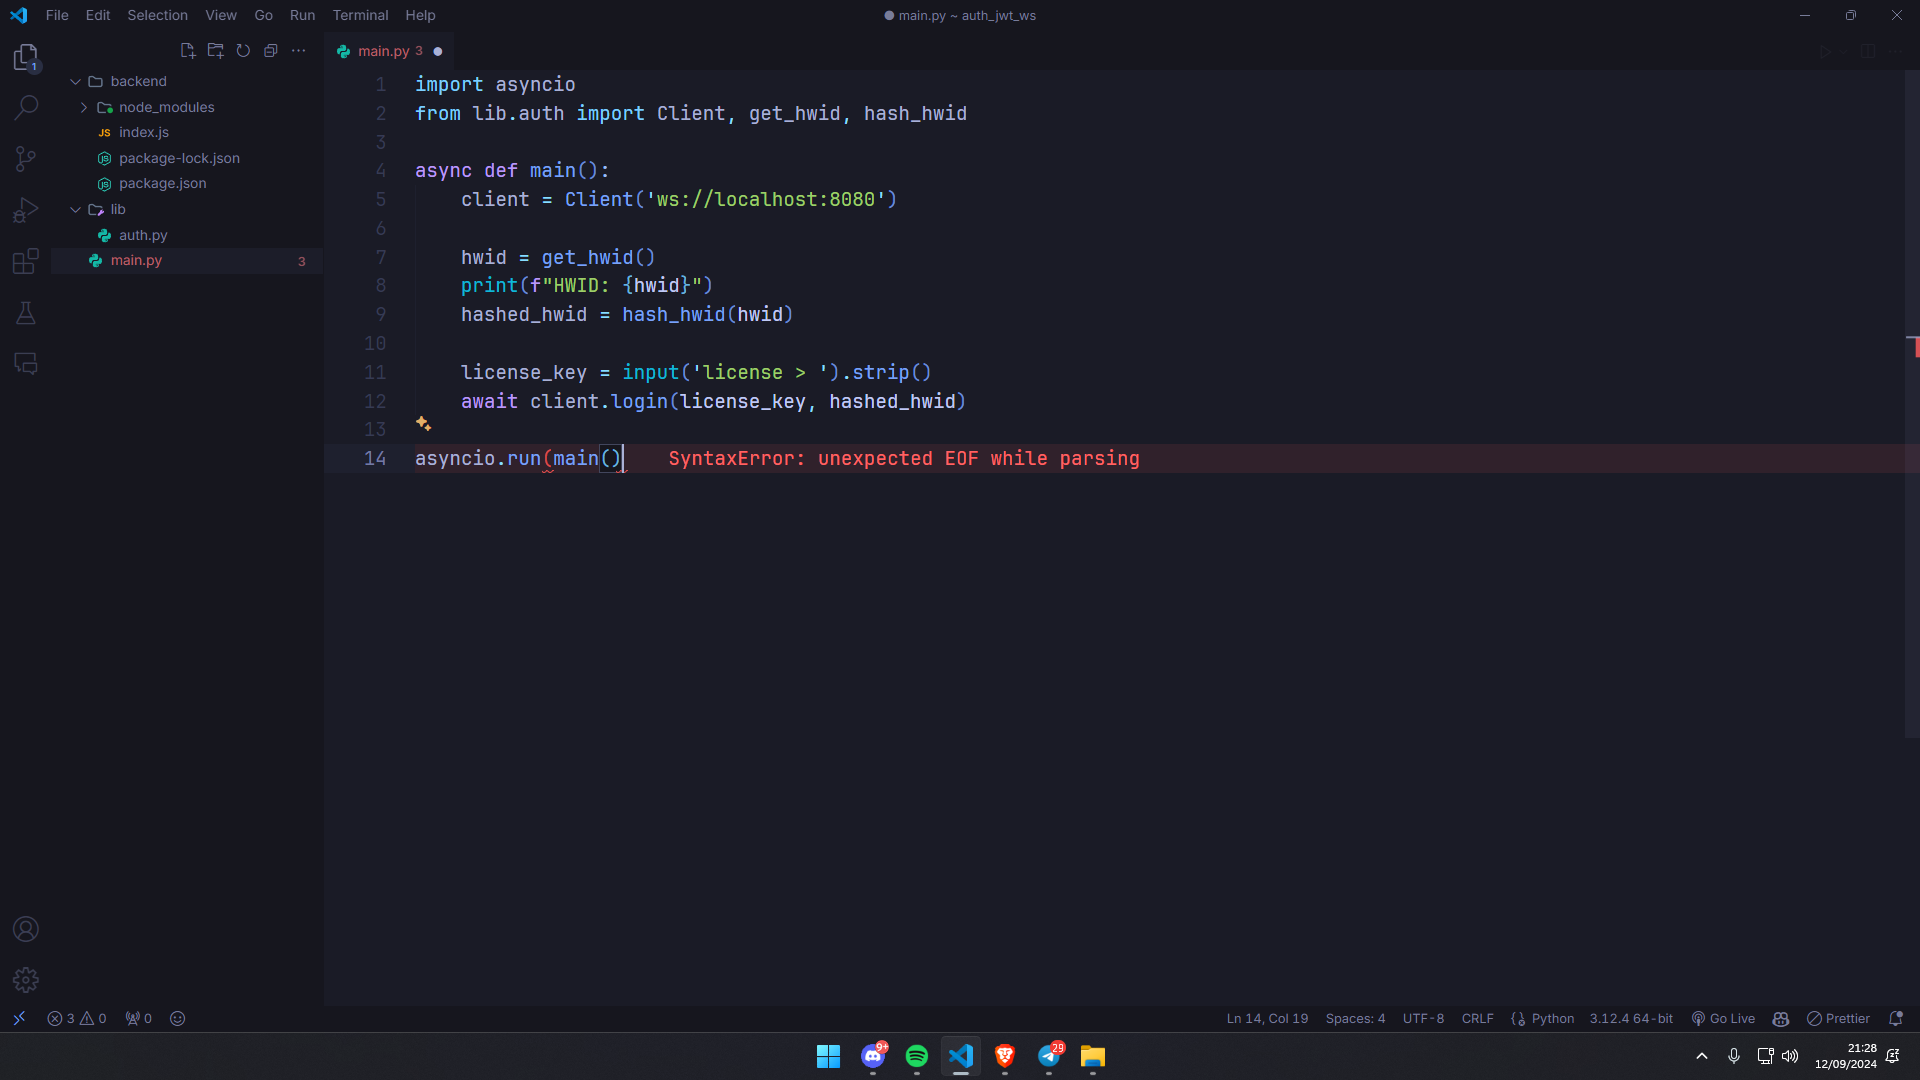
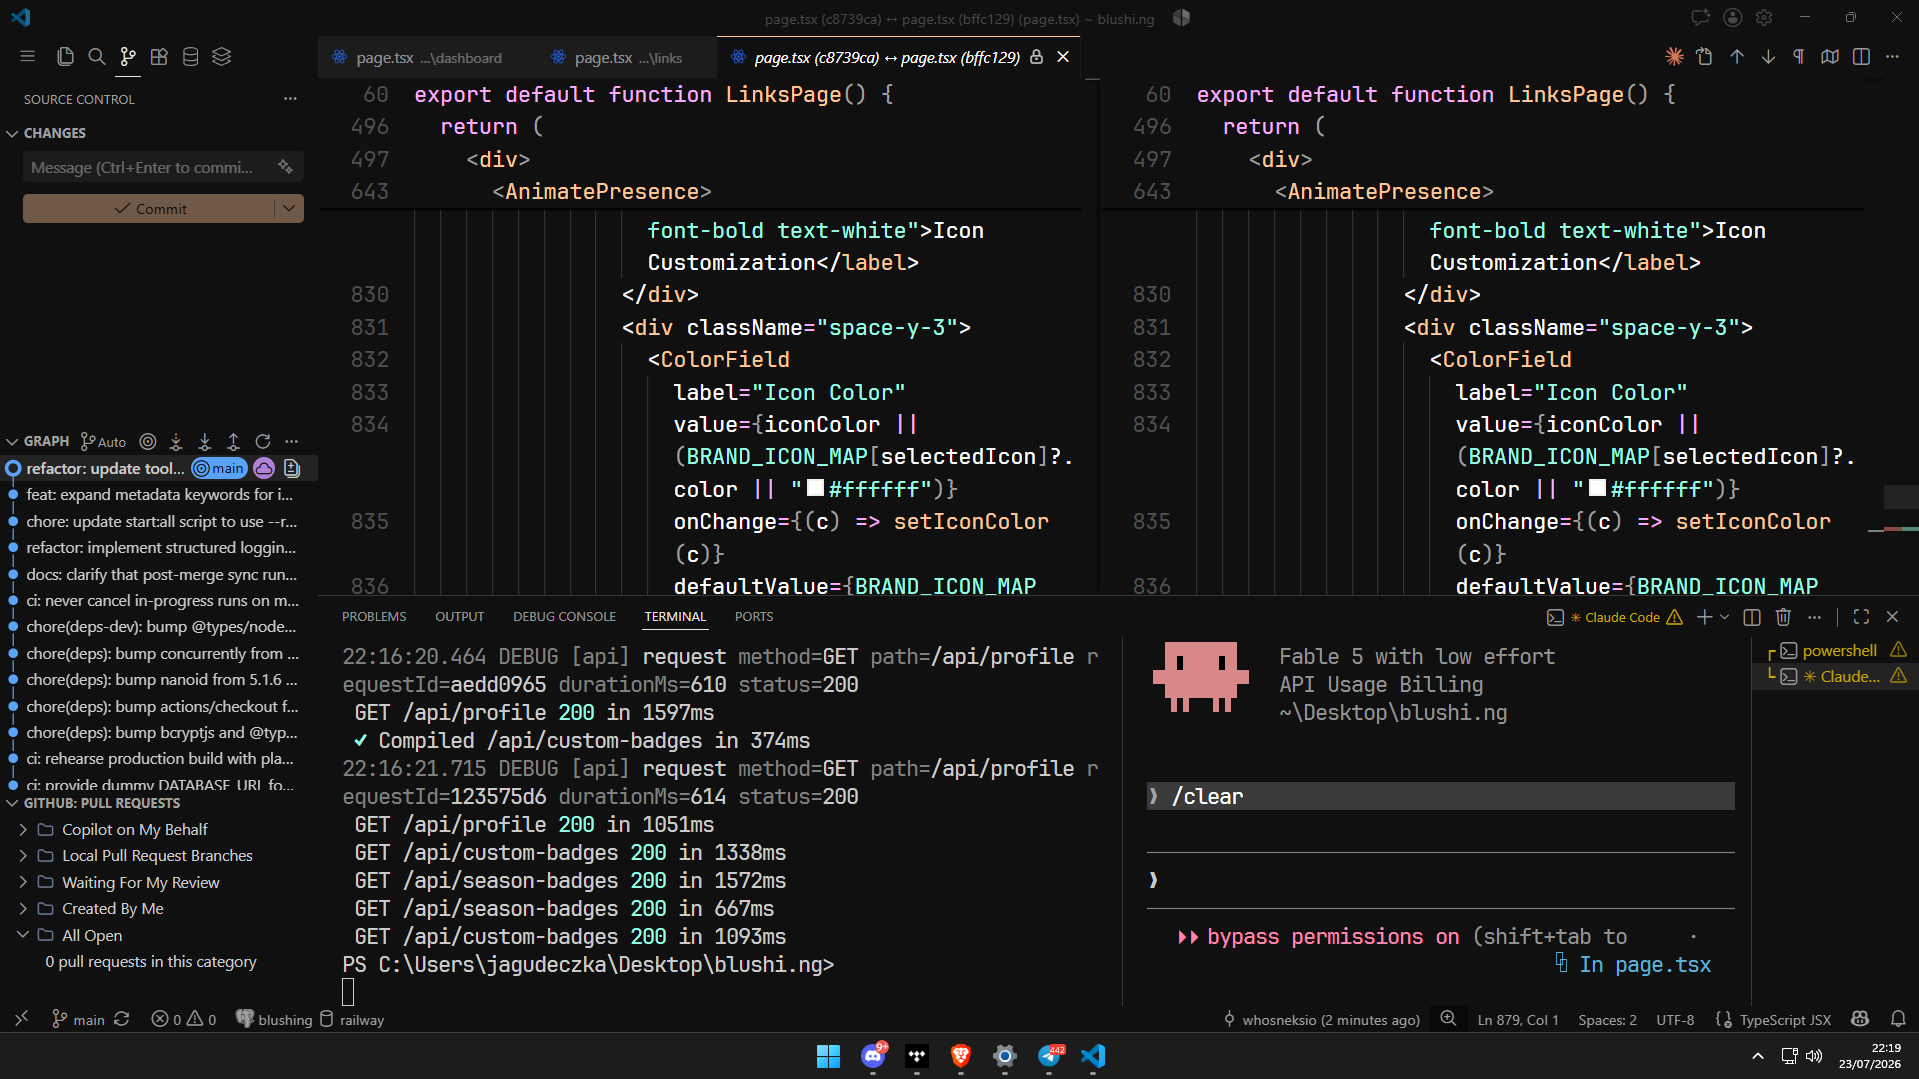
update

diff --git a/README.md b/README.md
@@ -6,18 +6,17 @@
 
 ### Theming
 
-- [Apc Customize UI++](https://marketplace.visualstudio.com/items?itemName=drcika.apc-extension)
-- [Borderless Tokyo Night](https://marketplace.visualstudio.com/items?itemName=gusvasconcelos.borderless-tokyonight)
-- [Symbols](https://marketplace.visualstudio.com/items?itemName=miguelsolorio.symbols)
+- Vesper ++
+- Symbols
 
 ### Utility
 
-- [Discord Rich Presence](https://marketplace.visualstudio.com/items?itemName=LeonardSSH.vscord)
-- [Error Lens](https://marketplace.visualstudio.com/items?itemName=usernamehw.errorlens)
-- [GitHub Copilot](https://marketplace.visualstudio.com/items?itemName=GitHub.copilot)
-- [Live Server](https://marketplace.visualstudio.com/items?itemName=ritwickdey.LiveServer)
-- [Prettier - Code formatter](https://marketplace.visualstudio.com/items?itemName=esbenp.prettier-vscode)
-- [Ruff](https://marketplace.visualstudio.com/items?itemName=charliermarsh.ruff)
+- GitHub Pull Requests
+- Prettier
+- Pretter ESLint
+- Database Client
+- Database Client JDBC
+- Claude Code for VS Code
 
 ## settings.json
 
@@ -42,7 +41,7 @@
     "workbench.iconTheme": "symbols",
     "workbench.list.smoothScrolling": true,
     "workbench.layoutControl.enabled": false,
-    "workbench.colorTheme": "Borderless Tokyo Night",
+    "workbench.colorTheme": "Vesper ++",
 
     "window.zoomLevel": 0.35,
     "window.commandCenter": false,
@@ -51,26 +50,40 @@
     "explorer.compactFolders": false,
 
     "breadcrumbs.enabled": false,
+    "workbench.activityBar.location": "top",
+    "window.menuBarVisibility": "compact",
+    
+    "claudeCode.useTerminal": true,
+    "git.autofetch": true
+}
+```
 
-    "apc.statusBar": {
-        "height": 24,
-        "fontSize": 12
-    },
+## Claude's settings.json
 
-    "apc.header": {
-        "height": 36
-    },
-
-    "apc.listRow": {
-        "height": 24
-    },
-
-    "apc.stylesheet": {
-        ".title-label > h2": "display: none;",
-        ".editor-actions": "opacity: 0.1; transition: .2s;",
-        ".editor-actions:hover": "opacity: 1; transition: .2s;",
-    },
-
-    "apc.font.family": "Inter",
+```json
+{
+  "env": {
+    "ANTHROPIC_BASE_URL": "",
+    "ANTHROPIC_AUTH_TOKEN": "",
+    "CLAUDE_CODE_DISABLE_NONESSENTIAL_TRAFFIC": "1",
+    "CLAUDE_CODE_ATTRIBUTION_HEADER": "0",
+    "DISABLE_TELEMETRY": "1",
+    "DISABLE_ERROR_REPORTING": "1",
+    "DISABLE_AUTOUPDATER": "1",
+    "DISABLE_BUG_COMMAND": "1",
+    "DISABLE_COST_WARNINGS": "1",
+    "DISABLE_NON_ESSENTIAL_MODEL_CALLS": "1"
+  },
+  "permissions": {
+    "defaultMode": "bypassPermissions"
+  },
+  "model": "",
+  "enabledPlugins": {
+    "claude-code-setup@claude-plugins-official": true
+  },
+  "effortLevel": "low",
+  "autoUpdatesChannel": "latest",
+  "skipDangerousModePermissionPrompt": true,
+  "theme": "dark"
 }
 ```
